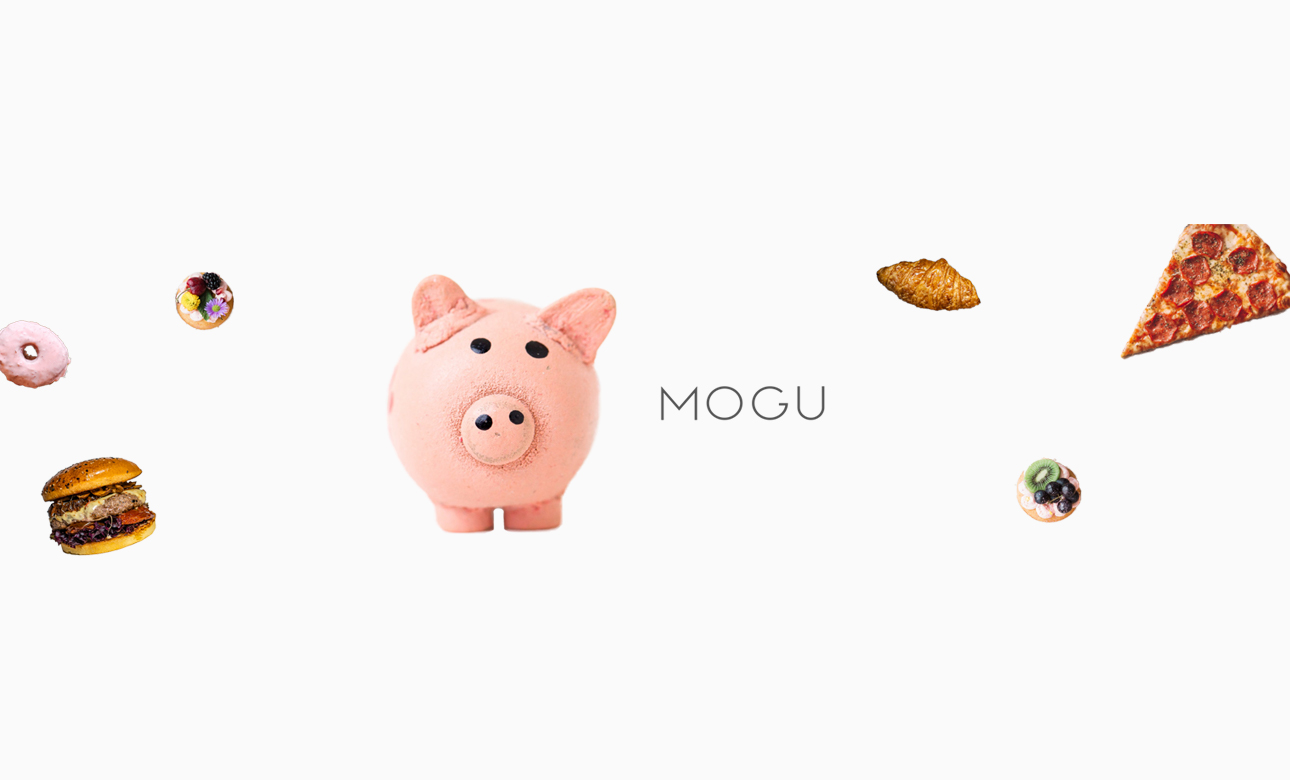
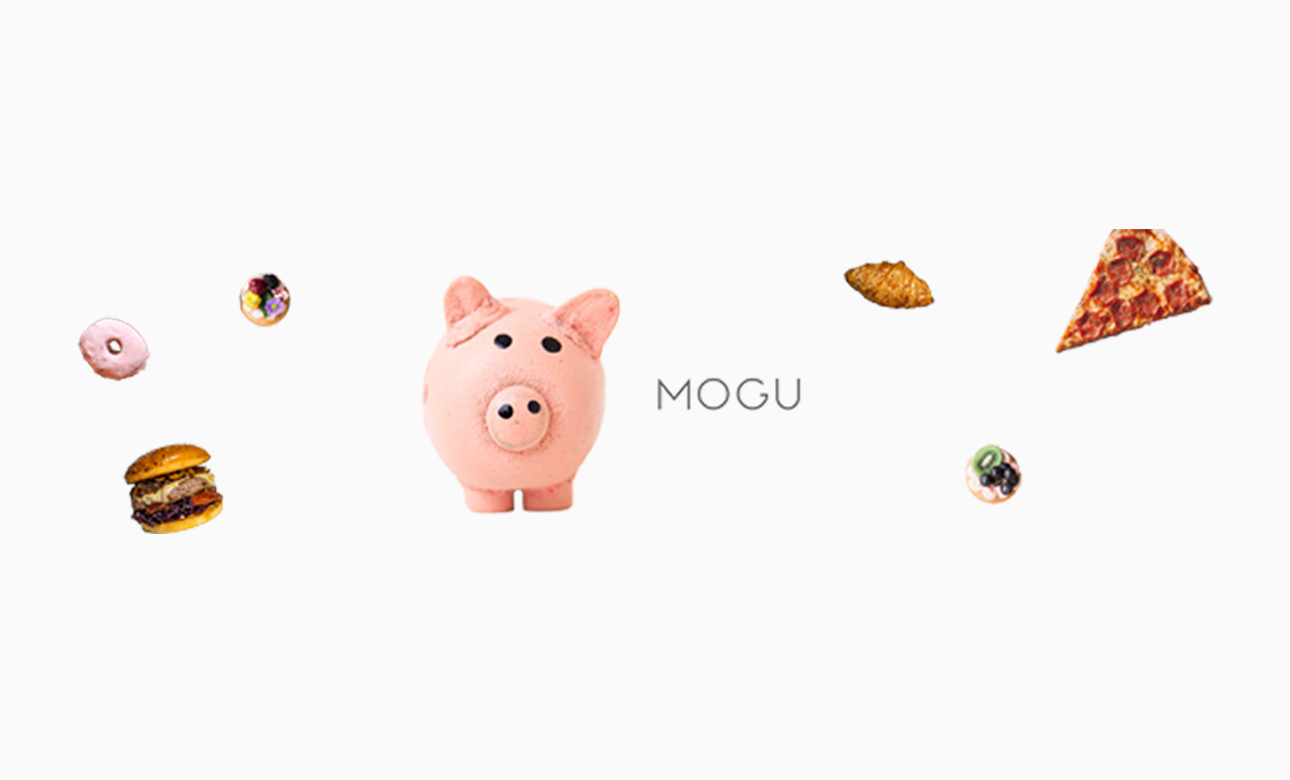
change thumbnail img

diff --git a/style.css b/style.css
@@ -844,7 +844,7 @@ html {
   }
   .works__thumbnails--pc .thumbnail {
     width: 480px;
-    height: 300px;
+    height: 100%;
     border-radius: 20px;
     display: flex;
     justify-content: flex-start;
@@ -861,7 +861,7 @@ html {
   }
   .works__thumbnails--pc .thumbnail img {
     width: 100%;
-    height: 300px;
+    height: 100%;
     object-fit: cover;
     cursor: pointer;
   }
@@ -914,7 +914,7 @@ html {
   }
   .works__thumbnails .thumbnail {
     width: 480px;
-    height: 330px;
+    height: 100%;
   }
   .works__thumbnails .thumbnail.delighter {
     transition: all .5s ease-out;
@@ -927,7 +927,7 @@ html {
   }
   .works__thumbnails .thumbnail img {
     width: 100%;
-    height: 330px;
+    height: 100%;
   }
   .works__thumbnails .thumbnail p {
     padding-left: 2%;

diff --git a/scss/_work.scss b/scss/_work.scss
@@ -77,7 +77,7 @@
 
       .thumbnail {
         width: 480px;
-        height: 300px;
+        height: 100%;
         border-radius: 20px;
         display: flex;
         justify-content: flex-start;
@@ -96,7 +96,7 @@
 
         img {
           width: 100%;
-          height: 300px;
+          height: 100%;
           object-fit: cover;
           cursor: pointer;
         }
@@ -149,7 +149,7 @@
 
       .thumbnail {
         width: 480px;
-        height: 330px;
+        height: 100%;
 
         &.delighter {
           transition: all .5s ease-out;
@@ -164,7 +164,7 @@
 
         img {
           width: 100%;
-          height: 330px;
+          height: 100%;
         }
 
         p {
